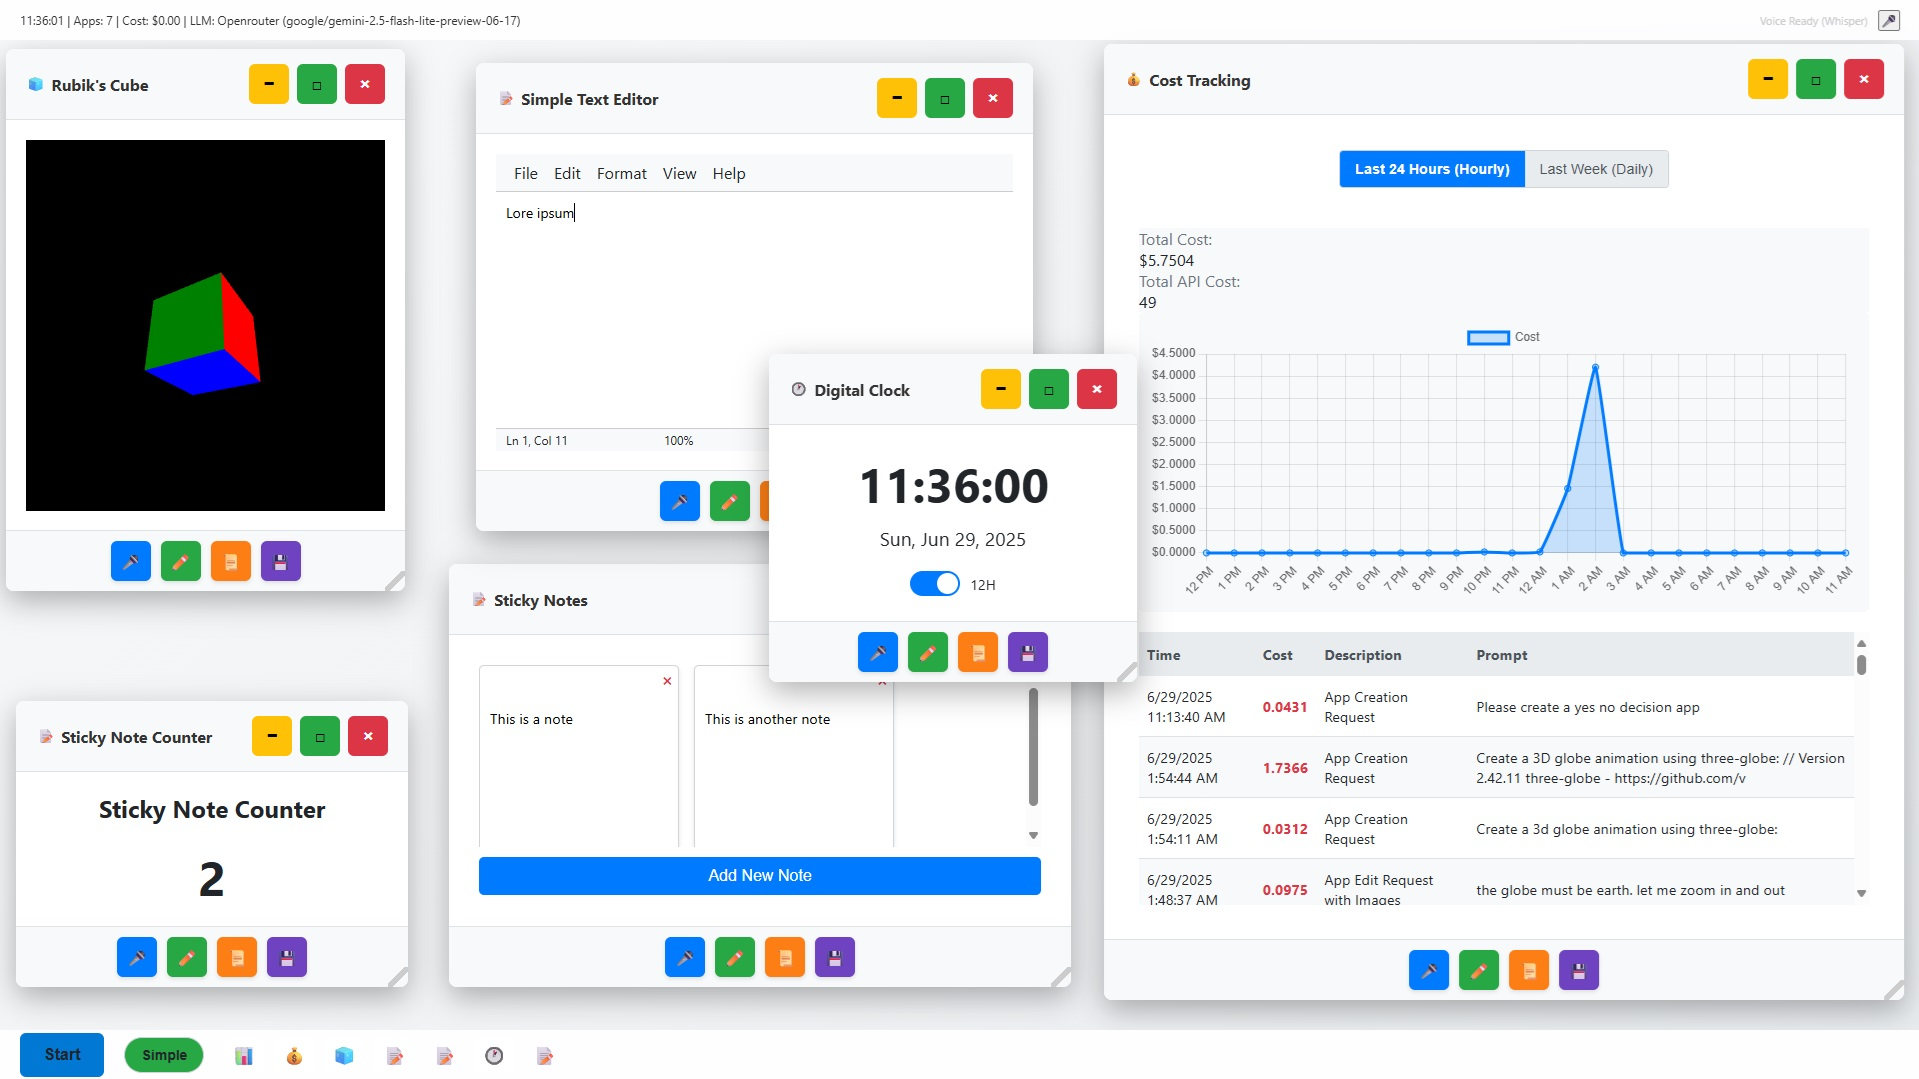
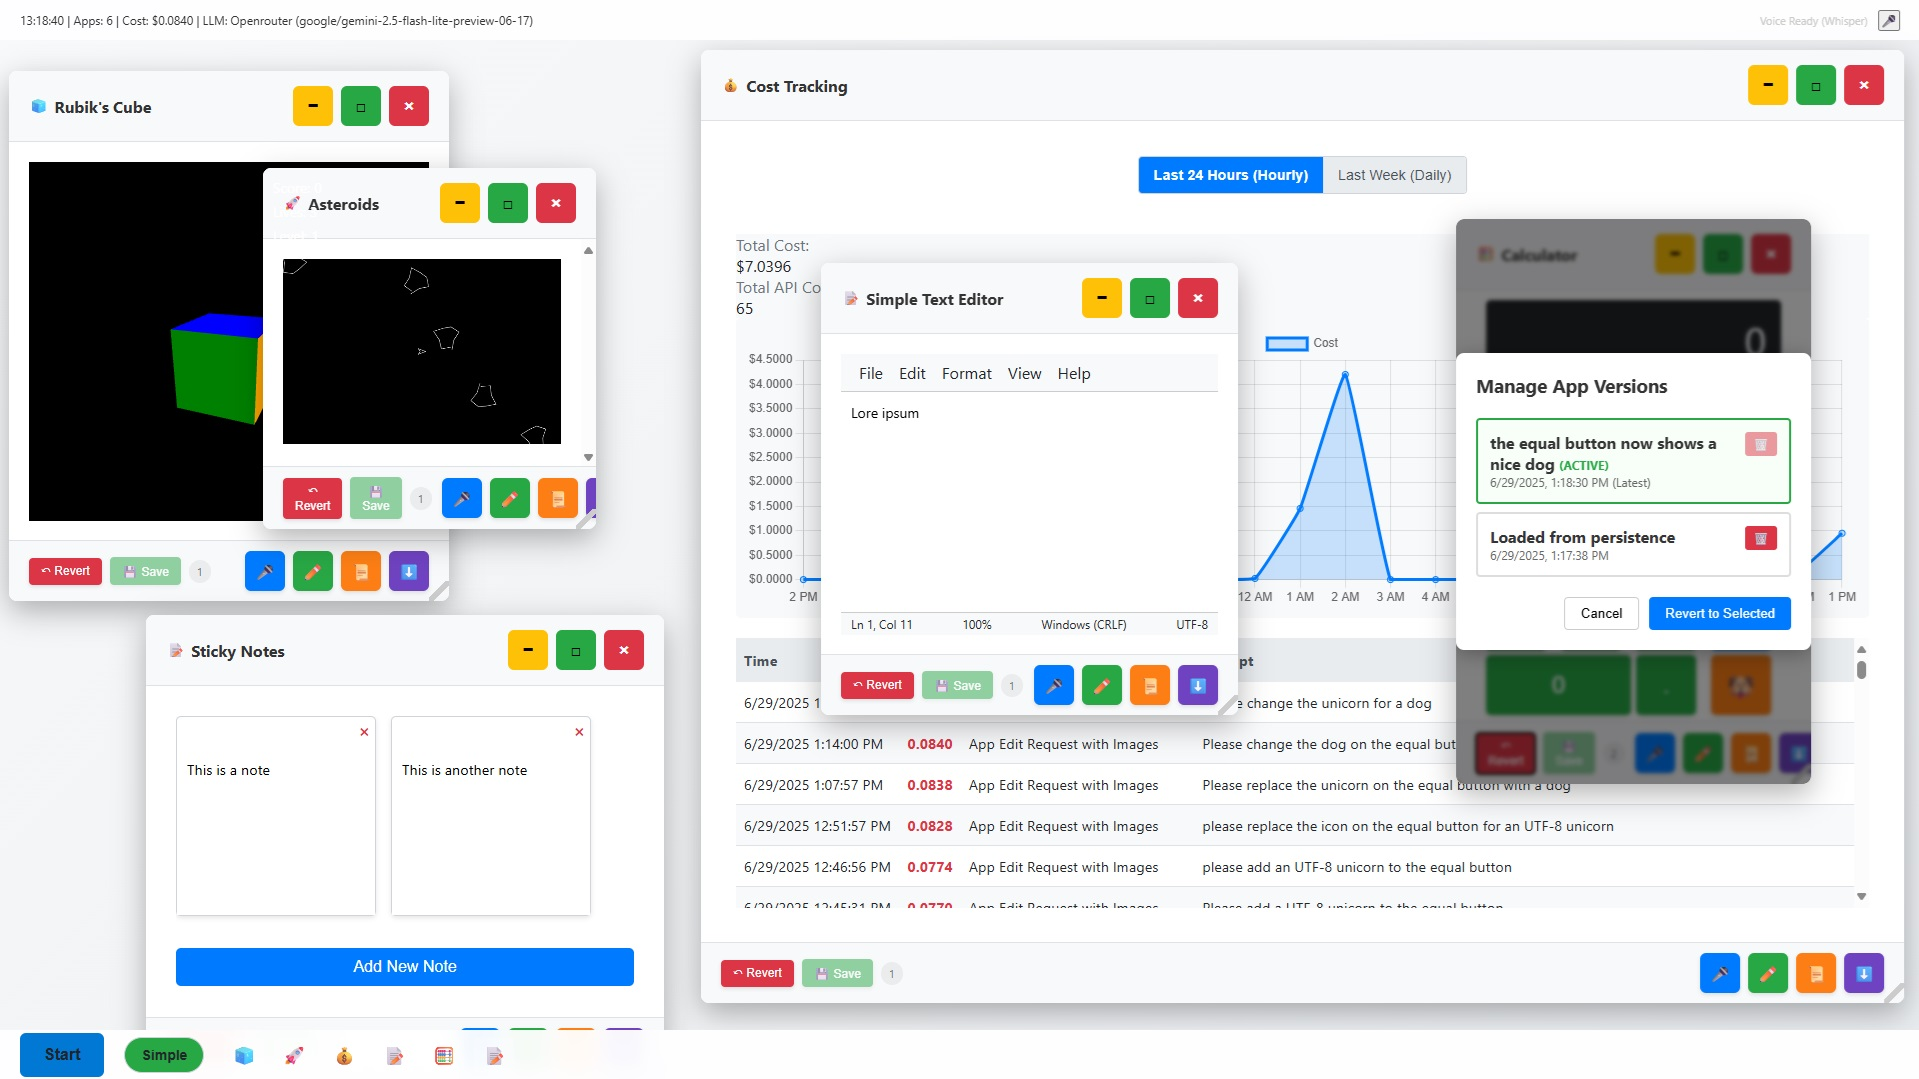
improved the dialog system to show dialogs always over the app that requested a dialog. Updated the image of the ai-os desktop.

Changed region(s): [[0.0, 0.0612, 0.9838, 1.0], [0.8916, 0.0306, 0.9838, 0.1223], [0.0922, 0.0, 0.2767, 0.0306]]

diff --git a/ai-os.html b/ai-os.html
@@ -372,7 +372,7 @@
                         if (description !== null) {
                             window.versionManager.createSnapshot(appId, description || 'Manual save');
                         }
-                    });
+                    }, appId);
                 });
             }
             
@@ -682,18 +682,38 @@
         function showVersionSelectionDialog(appId, history) {
             const modal = document.createElement('div');
             modal.className = 'custom-modal';
-            modal.style.cssText = `
-                position: fixed;
-                top: 0;
-                left: 0;
-                width: 100%;
-                height: 100%;
-                background: rgba(0, 0, 0, 0.5);
-                display: flex;
-                justify-content: center;
-                align-items: center;
-                z-index: 10000;
-            `;
+            
+            // Position relative to app window
+            const appWindow = document.getElementById(`window_${appId}`);
+            if (appWindow) {
+                modal.style.cssText = `
+                    position: absolute;
+                    top: 0;
+                    left: 0;
+                    width: 100%;
+                    height: 100%;
+                    background: rgba(0, 0, 0, 0.5);
+                    display: flex;
+                    justify-content: center;
+                    align-items: center;
+                    z-index: 10000;
+                    backdrop-filter: blur(2px);
+                `;
+            } else {
+                // Fallback to fixed positioning if app window not found
+                modal.style.cssText = `
+                    position: fixed;
+                    top: 0;
+                    left: 0;
+                    width: 100%;
+                    height: 100%;
+                    background: rgba(0, 0, 0, 0.5);
+                    display: flex;
+                    justify-content: center;
+                    align-items: center;
+                    z-index: 10000;
+                `;
+            }
             
             const dialog = document.createElement('div');
             dialog.style.cssText = `
@@ -773,7 +793,13 @@
             `;
             
             modal.appendChild(dialog);
-            document.body.appendChild(modal);
+            
+            // Append to app window if available, otherwise to document body
+            if (appWindow) {
+                appWindow.appendChild(modal);
+            } else {
+                document.body.appendChild(modal);
+            }
             
             let selectedSnapshotId = null;
             
@@ -814,20 +840,24 @@
                         if (confirmed) {
                             if (window.versionManager.deleteSnapshot(appId, snapshotId)) {
                                 // Refresh the dialog with updated history
-                                document.body.removeChild(modal);
+                                if (modal.parentNode) {
+                                    modal.parentNode.removeChild(modal);
+                                }
                                 const updatedHistory = window.versionManager.getHistory(appId);
                                 if (updatedHistory.length > 0) {
                                     showVersionSelectionDialog(appId, updatedHistory);
                                 }
                             }
                         }
-                    });
+                    }, appId);
                 });
             });
             
             // Cancel button
             document.getElementById('cancel-revert').addEventListener('click', () => {
-                document.body.removeChild(modal);
+                if (modal.parentNode) {
+                    modal.parentNode.removeChild(modal);
+                }
             });
             
             // Confirm button
@@ -835,13 +865,17 @@
                 if (selectedSnapshotId) {
                     window.versionManager.restoreSnapshot(appId, selectedSnapshotId);
                 }
-                document.body.removeChild(modal);
+                if (modal.parentNode) {
+                    modal.parentNode.removeChild(modal);
+                }
             });
             
             // Click outside to close
             modal.addEventListener('click', (e) => {
                 if (e.target === modal) {
-                    document.body.removeChild(modal);
+                    if (modal.parentNode) {
+                        modal.parentNode.removeChild(modal);
+                    }
                 }
             });
         }
@@ -849,21 +883,57 @@
         // ===== CUSTOM NON-BLOCKING DIALOGS =====
         
         // Custom prompt dialog
-        function showCustomPrompt(message, defaultValue = '', callback) {
+        function showCustomPrompt(message, defaultValue = '', callback, appId = null) {
             const modal = document.createElement('div');
             modal.className = 'custom-modal';
-            modal.style.cssText = `
-                position: fixed;
-                top: 0;
-                left: 0;
-                width: 100%;
-                height: 100%;
-                background: rgba(0, 0, 0, 0.5);
-                display: flex;
-                justify-content: center;
-                align-items: center;
-                z-index: 10000;
-            `;
+            
+            // If appId is provided, position relative to app window
+            if (appId) {
+                const appWindow = document.getElementById(`window_${appId}`);
+                if (appWindow) {
+                    modal.style.cssText = `
+                        position: absolute;
+                        top: 0;
+                        left: 0;
+                        width: 100%;
+                        height: 100%;
+                        background: rgba(0, 0, 0, 0.5);
+                        display: flex;
+                        justify-content: center;
+                        align-items: center;
+                        z-index: 10000;
+                        backdrop-filter: blur(2px);
+                    `;
+                } else {
+                    // Fallback to fixed positioning if app window not found
+                    modal.style.cssText = `
+                        position: fixed;
+                        top: 0;
+                        left: 0;
+                        width: 100%;
+                        height: 100%;
+                        background: rgba(0, 0, 0, 0.5);
+                        display: flex;
+                        justify-content: center;
+                        align-items: center;
+                        z-index: 10000;
+                    `;
+                }
+            } else {
+                // Default fixed positioning for system-wide dialogs
+                modal.style.cssText = `
+                    position: fixed;
+                    top: 0;
+                    left: 0;
+                    width: 100%;
+                    height: 100%;
+                    background: rgba(0, 0, 0, 0.5);
+                    display: flex;
+                    justify-content: center;
+                    align-items: center;
+                    z-index: 10000;
+                `;
+            }
             
             const dialog = document.createElement('div');
             dialog.style.cssText = `
@@ -906,7 +976,18 @@
             `;
             
             modal.appendChild(dialog);
-            document.body.appendChild(modal);
+            
+            // Append to app window if appId provided, otherwise to document body
+            if (appId) {
+                const appWindow = document.getElementById(`window_${appId}`);
+                if (appWindow) {
+                    appWindow.appendChild(modal);
+                } else {
+                    document.body.appendChild(modal);
+                }
+            } else {
+                document.body.appendChild(modal);
+            }
             
             // Set flag to prevent app key handlers from interfering
             window.customDialogOpen = true;
@@ -922,7 +1003,10 @@
             }, 100);
             
             function cleanup() {
-                document.body.removeChild(modal);
+                // Remove modal from its parent (either app window or document body)
+                if (modal.parentNode) {
+                    modal.parentNode.removeChild(modal);
+                }
                 // Clear flag to re-enable app key handlers
                 window.customDialogOpen = false;
             }
@@ -960,21 +1044,57 @@
         }
         
         // Custom confirm dialog
-        function showCustomConfirm(message, callback) {
+        function showCustomConfirm(message, callback, appId = null) {
             const modal = document.createElement('div');
             modal.className = 'custom-modal';
-            modal.style.cssText = `
-                position: fixed;
-                top: 0;
-                left: 0;
-                width: 100%;
-                height: 100%;
-                background: rgba(0, 0, 0, 0.5);
-                display: flex;
-                justify-content: center;
-                align-items: center;
-                z-index: 10000;
-            `;
+            
+            // If appId is provided, position relative to app window
+            if (appId) {
+                const appWindow = document.getElementById(`window_${appId}`);
+                if (appWindow) {
+                    modal.style.cssText = `
+                        position: absolute;
+                        top: 0;
+                        left: 0;
+                        width: 100%;
+                        height: 100%;
+                        background: rgba(0, 0, 0, 0.5);
+                        display: flex;
+                        justify-content: center;
+                        align-items: center;
+                        z-index: 10000;
+                        backdrop-filter: blur(2px);
+                    `;
+                } else {
+                    // Fallback to fixed positioning if app window not found
+                    modal.style.cssText = `
+                        position: fixed;
+                        top: 0;
+                        left: 0;
+                        width: 100%;
+                        height: 100%;
+                        background: rgba(0, 0, 0, 0.5);
+                        display: flex;
+                        justify-content: center;
+                        align-items: center;
+                        z-index: 10000;
+                    `;
+                }
+            } else {
+                // Default fixed positioning for system-wide dialogs
+                modal.style.cssText = `
+                    position: fixed;
+                    top: 0;
+                    left: 0;
+                    width: 100%;
+                    height: 100%;
+                    background: rgba(0, 0, 0, 0.5);
+                    display: flex;
+                    justify-content: center;
+                    align-items: center;
+                    z-index: 10000;
+                `;
+            }
             
             const dialog = document.createElement('div');
             dialog.style.cssText = `
@@ -1009,7 +1129,18 @@
             `;
             
             modal.appendChild(dialog);
-            document.body.appendChild(modal);
+            
+            // Append to app window if appId provided, otherwise to document body
+            if (appId) {
+                const appWindow = document.getElementById(`window_${appId}`);
+                if (appWindow) {
+                    appWindow.appendChild(modal);
+                } else {
+                    document.body.appendChild(modal);
+                }
+            } else {
+                document.body.appendChild(modal);
+            }
             
             // Set flag to prevent app key handlers from interfering
             window.customDialogOpen = true;
@@ -1018,7 +1149,10 @@
             const okBtn = document.getElementById('confirm-ok');
             
             function cleanup() {
-                document.body.removeChild(modal);
+                // Remove modal from its parent (either app window or document body)
+                if (modal.parentNode) {
+                    modal.parentNode.removeChild(modal);
+                }
                 // Clear flag to re-enable app key handlers
                 window.customDialogOpen = false;
             }
